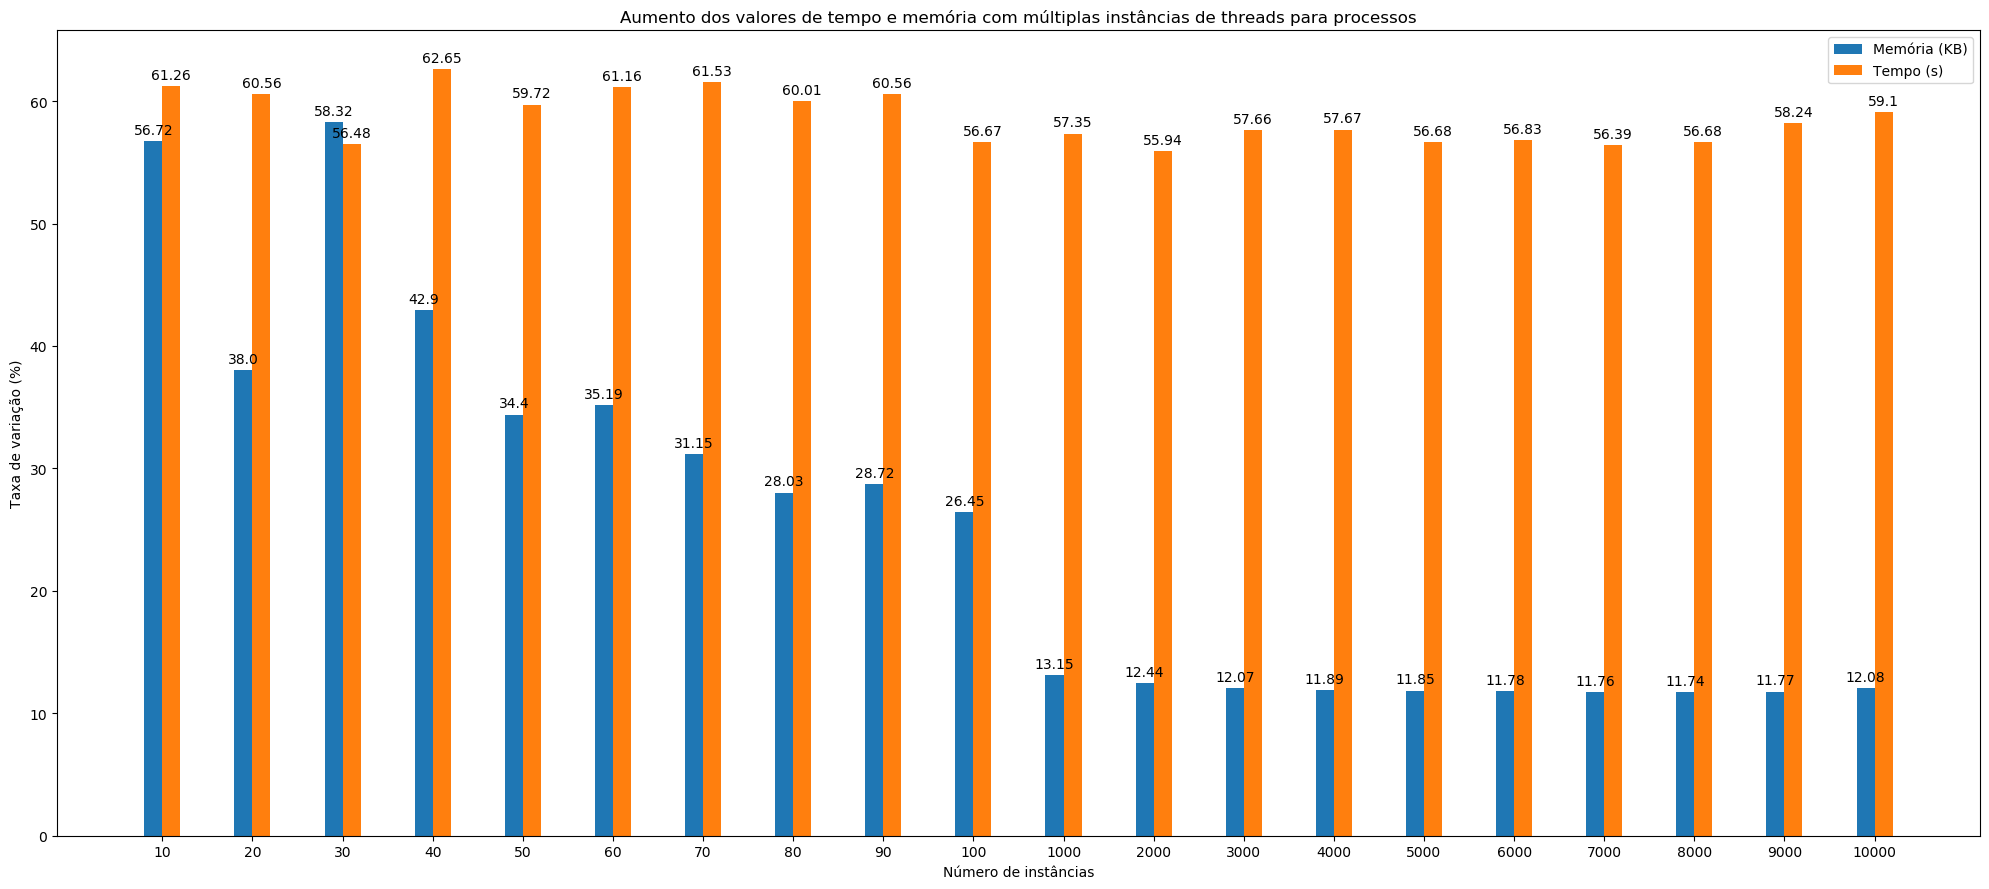
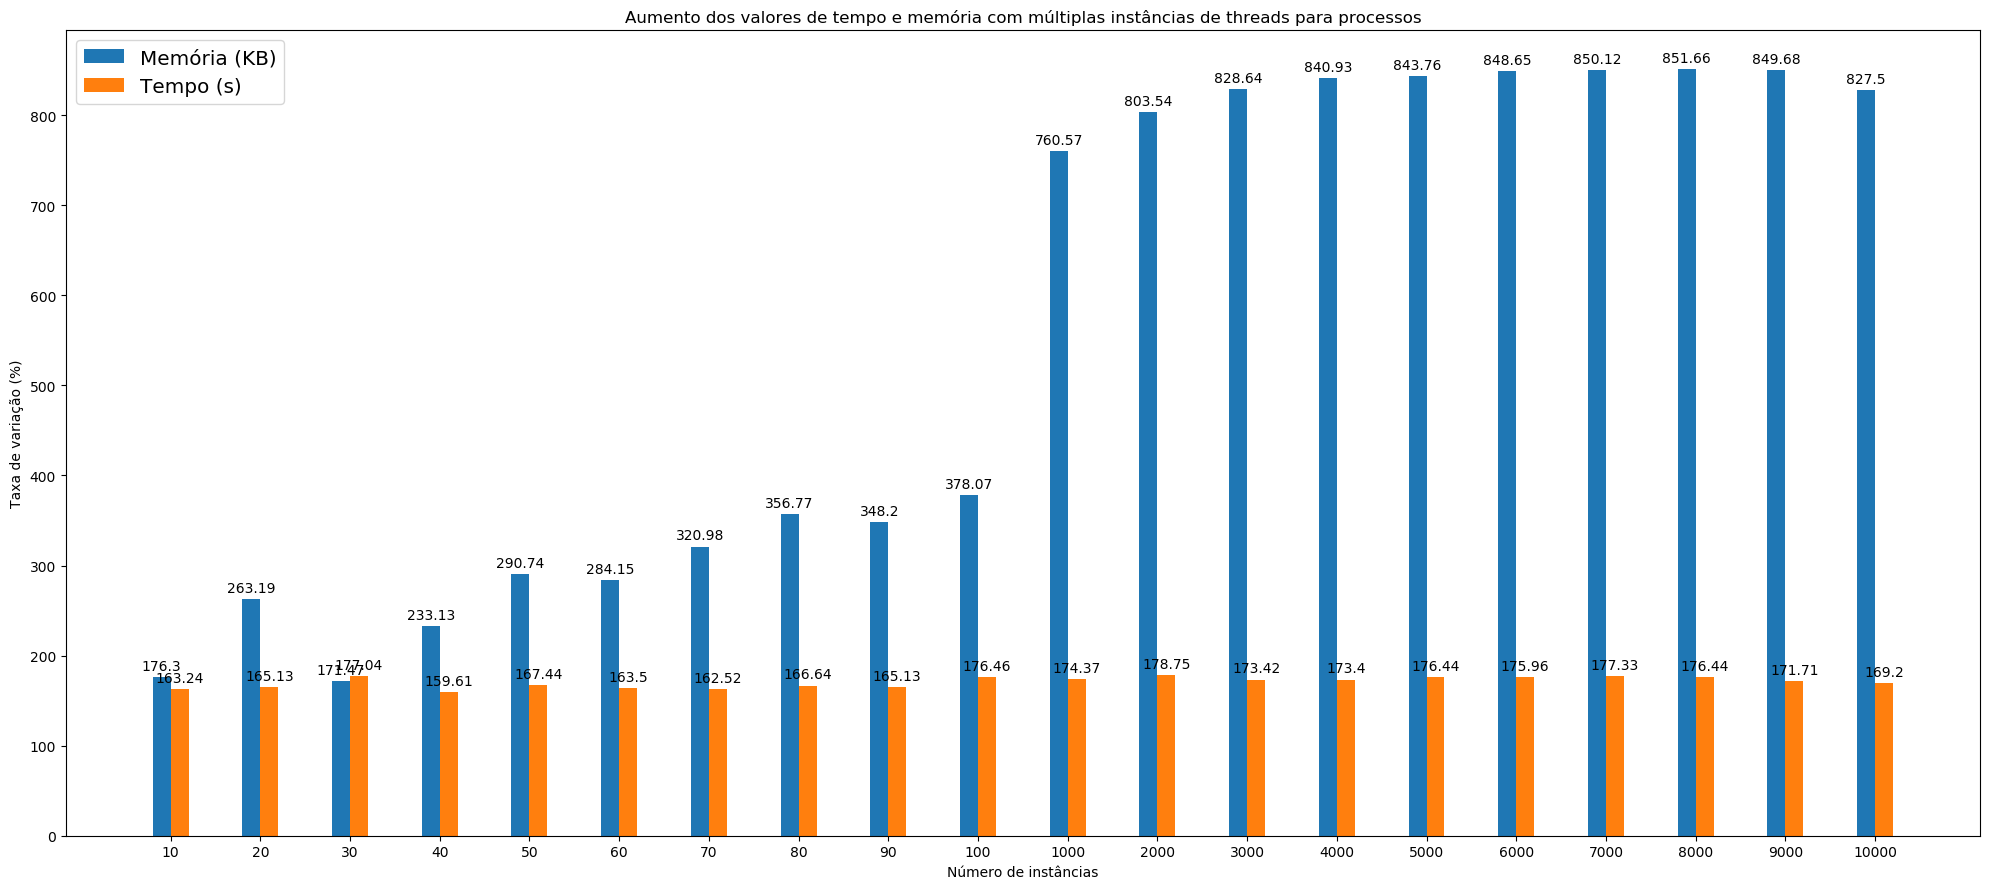
correção do gráfico de porcentagens

diff --git a/questao_3/output/plot_graphics.py b/questao_3/output/plot_graphics.py
@@ -287,8 +287,8 @@ time_increase_perc = []
 column_width = 0.20
 
 for i in range(len(keys)):
-    mem_increase_perc.append(round((mean_thread_mem_list[i] * 100.0) / mean_proc_mem_list[i], 2))
-    time_increase_perc.append(round((mean_thread_time_list[i] * 100.0) / mean_proc_time_list[i], 2))
+    mem_increase_perc.append(round((mean_proc_mem_list[i] * 100.0) / mean_thread_mem_list[i], 2))
+    time_increase_perc.append(round((mean_proc_time_list[i] * 100.0) / mean_thread_time_list[i], 2))
 
 fig, ax = plt.subplots(figsize=(20, 9))
 rects1 = ax.bar(np.array(range(0, len(keys))) - column_width / 2, np.array(mem_increase_perc), column_width, label='Memória (KB)')
@@ -298,7 +298,7 @@ ax.set_xlabel('Número de instâncias')
 ax.set_title('Aumento dos valores de tempo e memória com múltiplas instâncias de threads para processos')
 ax.set_xticks(np.array(range(0, len(keys))))
 ax.set_xticklabels(keys)
-ax.legend(loc='best')
+ax.legend(loc='upper left', fontsize='x-large')
 
 def autolabel(rects):
     """Attach a text label above each bar in *rects*, displaying its height."""
@@ -318,5 +318,7 @@ fig.tight_layout()
 
 plt.savefig('bar_increase_perc.png', bbox_inches='tight')
 plt.clf()
+
+print('mean memory increase: ' + str(statistics.mean(mem_increase_perc)) + '%', 'mean time increase: ' + str(statistics.mean(time_increase_perc)) + '%')
 
 print('All graphs were plotted with success.')
